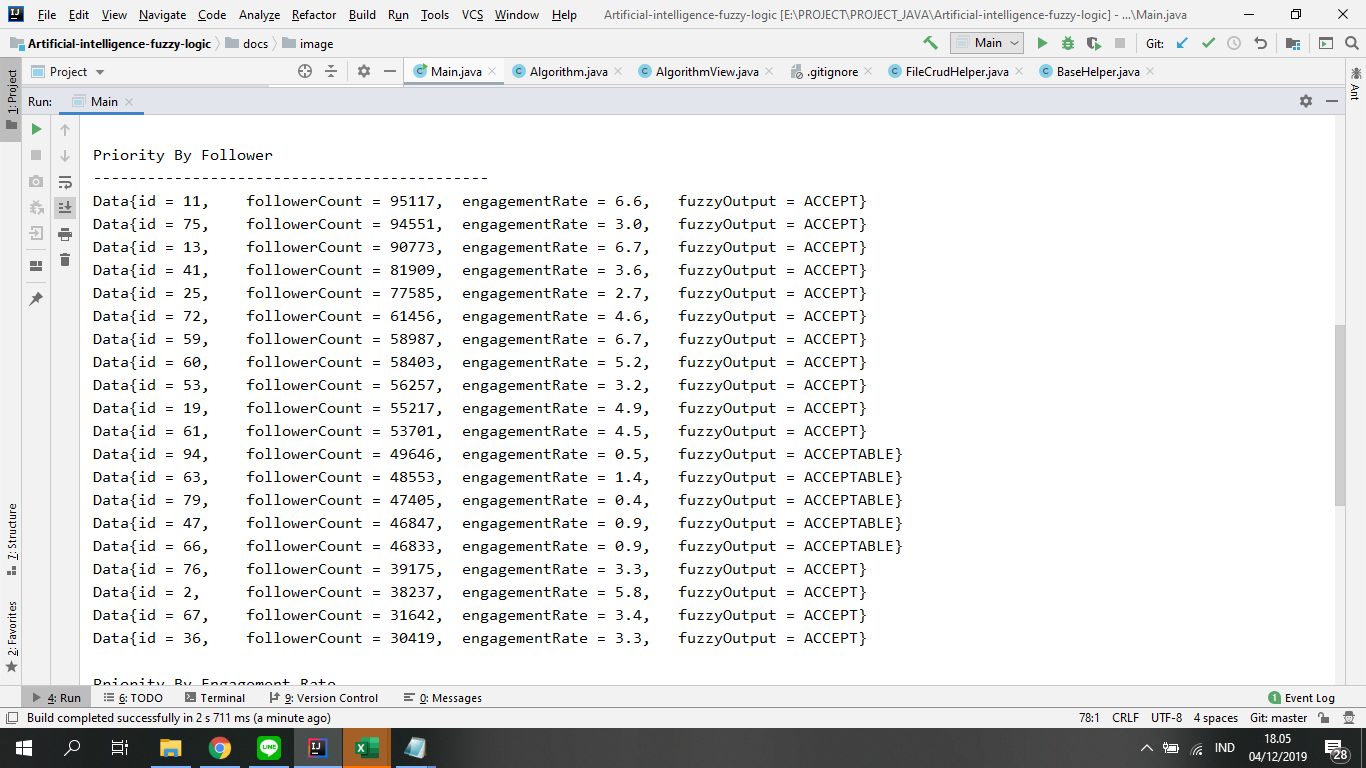
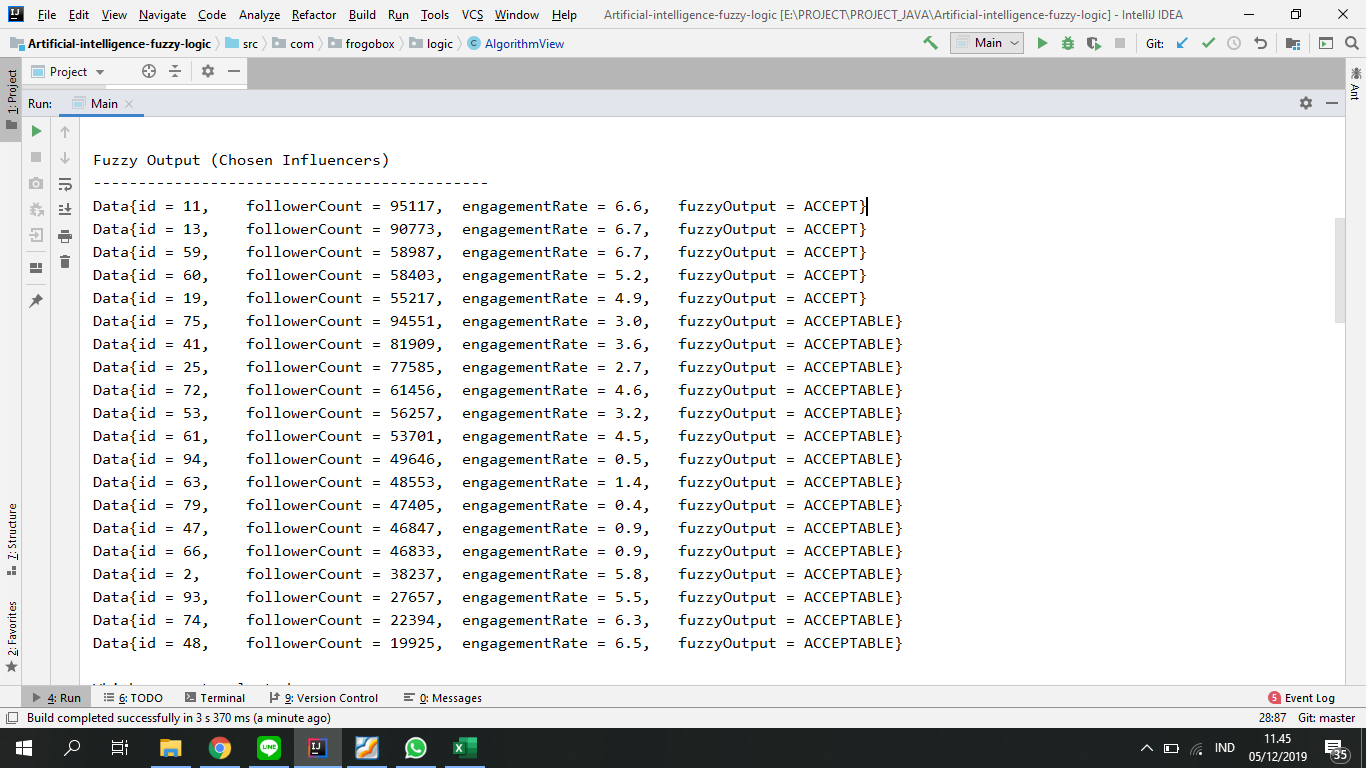
update: README.md

diff --git a/src/com/frogobox/logic/AlgorithmView.java b/src/com/frogobox/logic/AlgorithmView.java
@@ -70,8 +70,15 @@ public class AlgorithmView {
 
     public void setupResultFuzzySort(Comparator<DataFuzzy> comparator) {
         ArrayList<DataFuzzy> fuzzyArrayList = algorithm.arrayDataFuzzyLogic(comparator);
-        for (int i = 0; i < 20; i++) {
-            System.out.println(fuzzyArrayList.get(i).toString());
+        for (int i = 0; i < fuzzyArrayList.size(); i++) {
+            if (i == 20) {
+                System.out.println("\nWhich was not selected");
+                System.out.println(LINE_VIEW);
+                System.out.println(fuzzyArrayList.get(i).toString());
+            } else {
+                System.out.println(fuzzyArrayList.get(i).toString());
+            }
+
         }
     }
 
@@ -110,7 +117,7 @@ public class AlgorithmView {
     }
 
     public void showResultFuzzy() {
-        System.out.println("Fuzzy Output");
+        System.out.println("Fuzzy Output (Chosen Influencers)");
         System.out.println(LINE_VIEW);
         setupResultFuzzySort(new FuzzyComp());
     }
